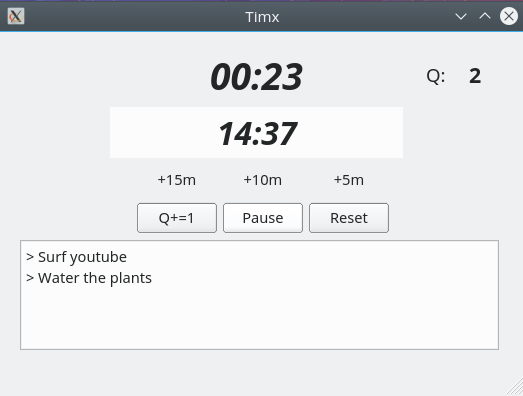
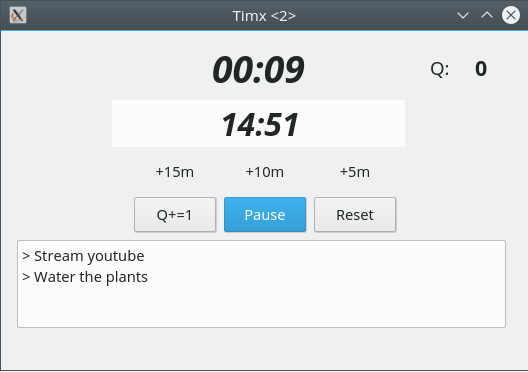
Theme updated

diff --git a/timx.py b/timx.py
@@ -10,7 +10,7 @@ class Window(QtGui.QMainWindow):
 		self.home()
 
 	def home(self):
-		QtGui.QApplication.setStyle(QtGui.QStyleFactory.create("Cleanlooks"))
+		# QtGui.QApplication.setStyle(QtGui.QStyleFactory.create("Cleanlooks"))
 
 		# self.setCentralWidget(self.widget)
 		# widget.resize()
